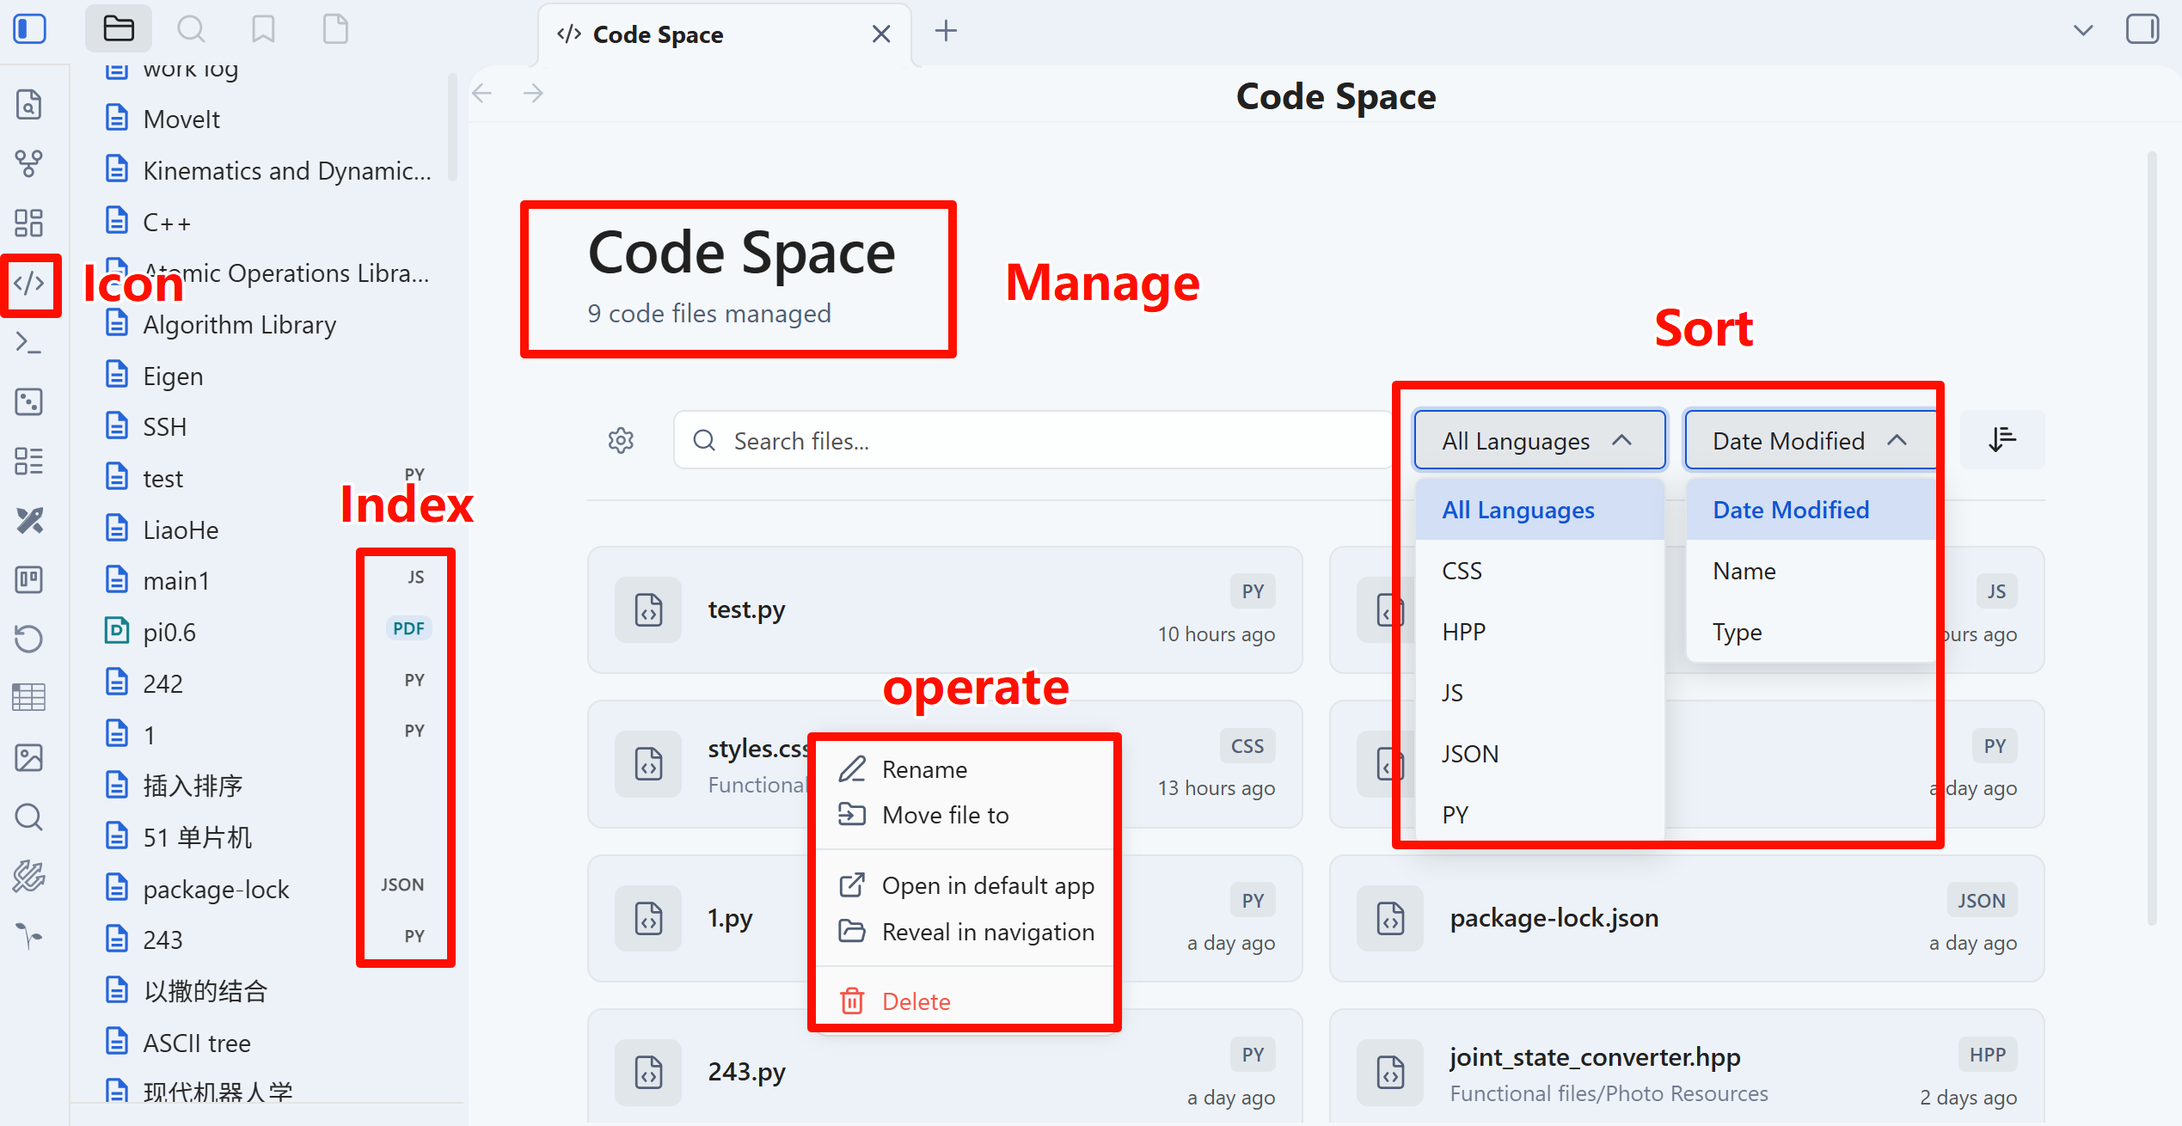
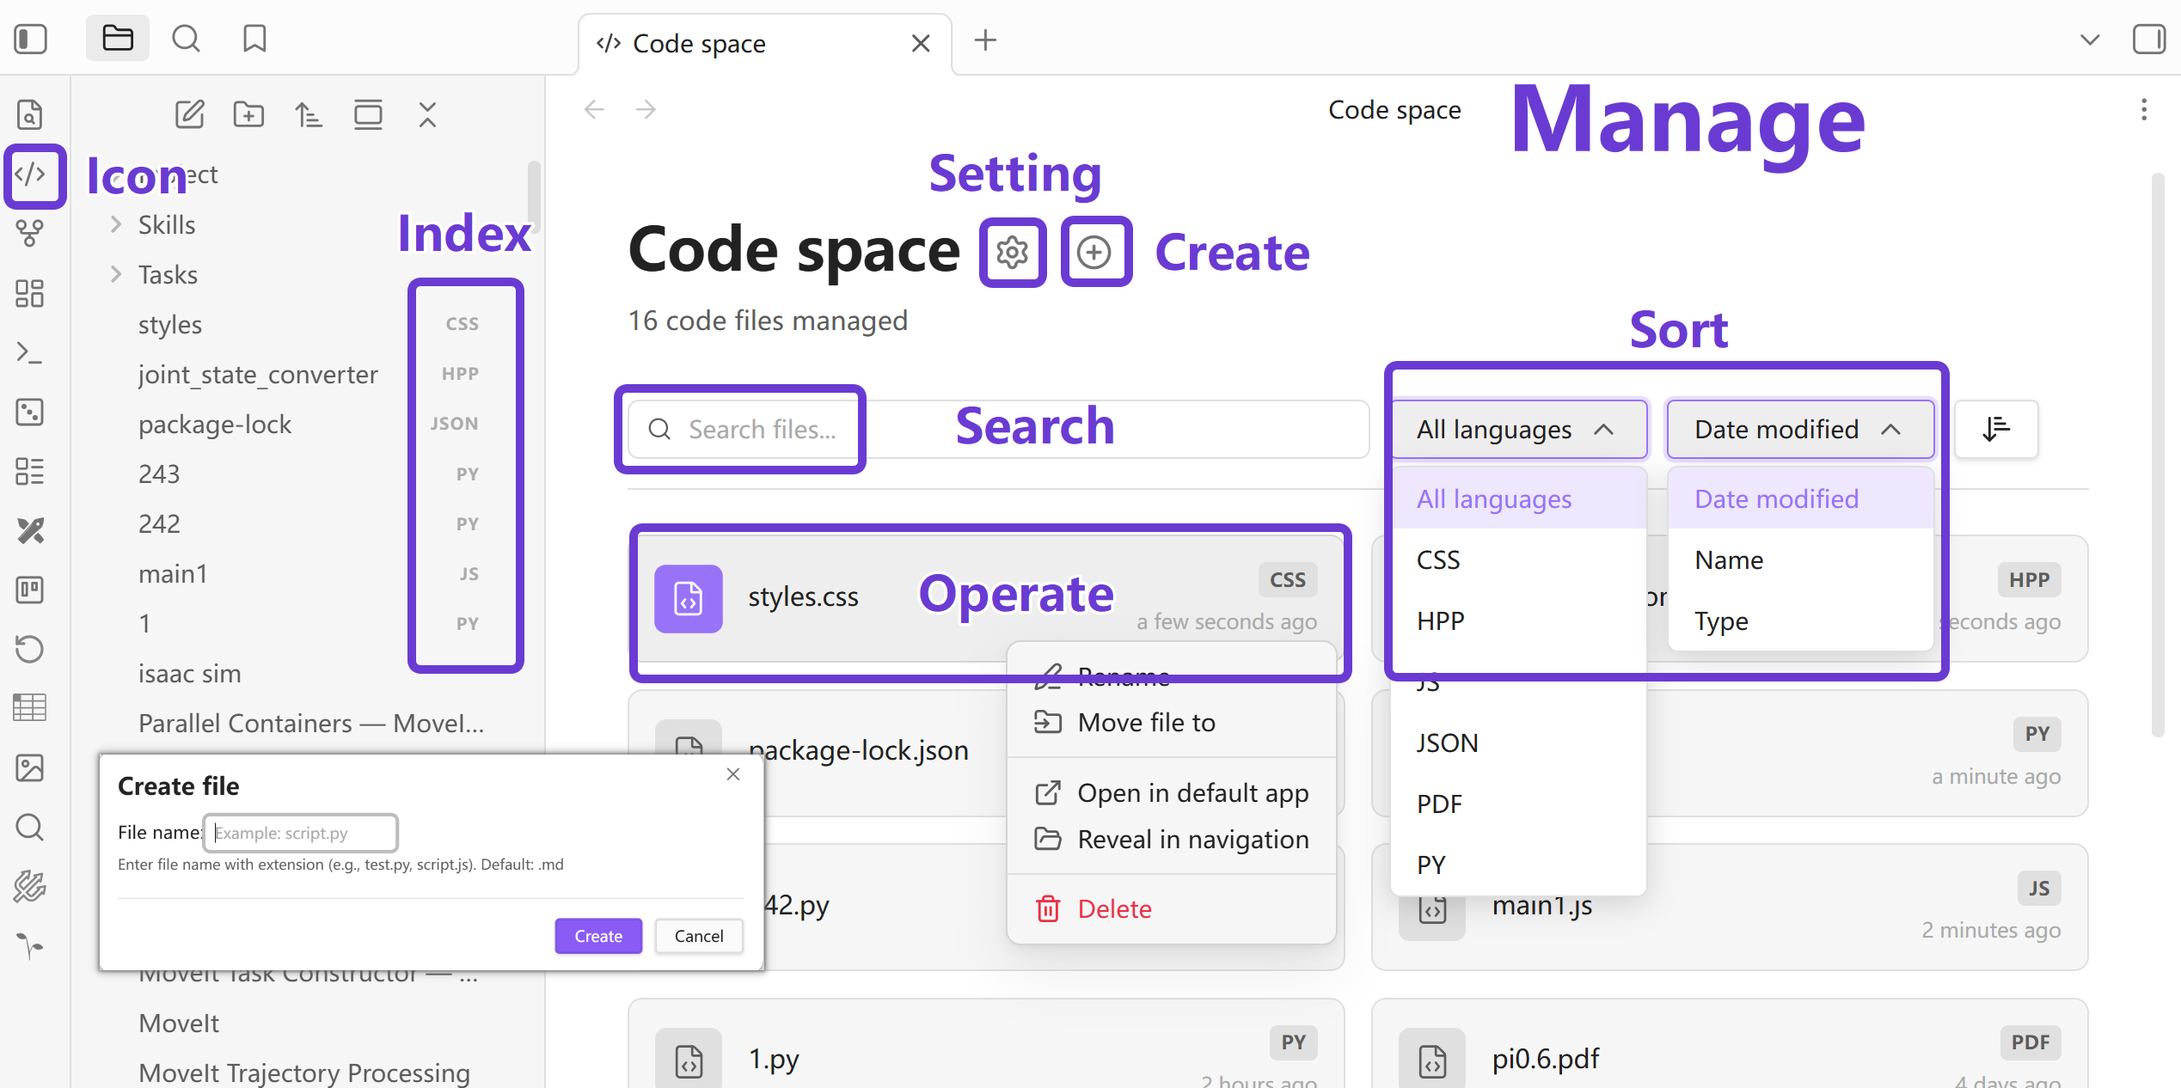
Update readme

diff --git a/README.md b/README.md
@@ -25,60 +25,59 @@ Obsidian does not support **code file viewing, management, and editing** by defa
 
 **The Three Layers of "Space":**
 
-1. **Management Space**: Unified indexing and management for code files through a visual dashboard
-2. **Editing Space**: Professional code viewing and editing environment within code files
-3. **Embedding Space**: Deep integration with Obsidian native features for code file references and embedded previews
+1. **Management Space**: Unified indexing and management for code files through a visual dashboard.
+2. **Editing Space**: Professional code viewing and editing environment within code files.
+3. **Embedding Space**: Deep integration with Obsidian native features for code file references and embedded previews.
+
 
 ---
 
 ## Core Features
 
 ### 1. Code File Management Space
+Provides a visual dashboard for unified indexing and management of code files within your vault.
 
-Unified management of all code files through a visual dashboard
+- **Visual Dashboard**: An immersive management interface supporting grid layouts and file status overviews.
+- **Integrated Management Tools**: The title area integrates **Settings** and **File Creation** functionality to streamline workflows.
+- **Multi-dimensional Dynamic Filtering**: Supports filtering by file extension and real-time search by filename.
+- **Standard File Operations**: Integrated file management functions (Rename, Move, Delete, Open in system app) natively supported by Obsidian.
 
-- **Visual Dashboard**: Browse and manage all code files through a dedicated interface
-- **Smart Filtering**: Filter by file extension and search by filename
-- **Right-Click Actions**: Rename, move, delete, open in system app
-- **Quick Creation**: Create new code files with one click
+<p align='center'><img src='img\pre1.png' width=95%></p> 
 
-<p align='center'><img src='img/pre1.png' width=95%></p>
 
 ### 2. Professional Code Editing Space
+Provides an IDE-like code viewing and editing environment.
 
-Syntax highlighting, line numbers, code folding, and more
+- **Syntax Highlighting**: Precise highlighting for multiple programming languages powered by CodeMirror 6.
+- **Structured Navigation**: Integrated Code Outline view that automatically parses Class, Function, and Method structures with click-to-jump support.
+- **Advanced Search & Replace**: Independent search panel supporting Regular Expressions, case sensitivity, whole-word matching, and global replacement.
+- **Manual Save Mechanism**: Supports Ctrl+S manual saving with cursor position protection to prevent viewport jumping.
+- **Editing Assistance**: Supports auto-indentation, bracket matching, code folding, and line number display.
+- **Interaction Optimization**: Supports Ctrl+Wheel font scaling and provides a floating search button for quick access.
 
-- **Syntax Highlighting**: Multi-language syntax highlighting powered by CodeMirror 6
-- **Smart Editing**: Auto-indentation, bracket matching, code folding
-- **Line Numbers**: Optional line number display
-- **Manual Save**: Save with Ctrl+S, preventing unintended modifications
-- **Font Scaling**: Adjust font size with Ctrl+Mouse Wheel
-- **Keyboard Shortcuts**: Comprehensive keyboard shortcuts support (see below)
+<p align='center'><img src='img\pre22.png' width=95%></p> 
 
-<p align='center'><img src='img/pre2.png' width=95%></p>
+<p align='center'><img src='img\pre2.png' width=95%></p> 
 
-### 3. Obsidian Native Syntax Embedding
+### 3. Obsidian Native Embedding Space
 
-Elegantly embed and preview code in Markdown notes
+Elegantly embed and preview code in Markdown notes.
 
-- **File References**: Link code files using `[[filename]]` syntax
-- **Code Embedding**: Embed code previews in Markdown using `![[filename]]`
-- **Quick Preview**: Hover over links to preview code content
-- **Bidirectional Sync**: Automatic detection and notification of external modifications
+- **File References**: Link code files using `[[filename]]` syntax.
+- **Code Embedding**: Embed code previews in Markdown using `![[filename]]`.
+- **Quick Preview**: Hover over links to preview code content.
+- **Bidirectional Sync**: Automatic detection and notification of external modifications.
 
-<p align='center'><img src='img/pre3.png' width=95%></p>
+<p align='center'><img src='img\pre3.png' width=95%></p> 
 
 ---
-
 ## Configuration
 
 Access plugin settings via: **Settings > Community Plugins > Code Space**
 
-- **Managed Extensions**: Comma-separated list of file extensions for Code Space to manage
-- **Show Line Numbers**: Toggle line number display (default: enabled)
-- **Max Embed Lines**: Maximum lines to display in embedded previews (default: 30, 0 for unlimited)
-
----
+- **Managed Extensions**: Comma-separated list of file extensions for Code Space to manage.
+- **Show Line Numbers**: Toggle line number display (default: enabled).
+- **Max Embed Lines**: Maximum lines to display in embedded previews (default: 30, 0 for unlimited).
 
 ## Supported Languages (Extensible)
 
@@ -92,26 +91,27 @@ Access plugin settings via: **Settings > Community Plugins > Code Space**
 | Data | `.sql`, `.json`, `.yaml`, `.yml`, `.xml` |
 | Scripting | `.php`, `.rb`, `.sh` |
 
-*More languages can be added via plugin settings. The plugin supports management of files with any extension!*
+**More languages can be added via plugin settings. The plugin supports management of files with any extension!**
+- If it is a code file, it will be opened through the Code Space editor interface.
+- If it is a binary file (e.g., images or PDFs), it will be opened using Obsidian's native viewer. You can even use it to manage attachments like PDFs.
 
-- Code files are opened through Code Space's code editor interface
-- Binary files (e.g., images or PDFs) are opened using Obsidian's native viewer
+<p align='center'><img src='img\pre4.png' width=95%></p> 
 
-<p align='center'><img src='img/pre4.png' width=95%></p>
 
----
 
 ## Supported Keyboard Shortcuts
 
 ### Plugin Commands
 
-<p align='center'><img src='img/pre5.png' width=95%></p>
+<p align='center'><img src='img\pre5.png' width=95%></p> 
 
 | Command Path | Function |
 |-------------|----------|
-| `Ctrl+P` → "Open Code Dashboard" | Open code management panel |
-| `Ctrl+P` → "Create Code File" | Create new code file |
-| `Ctrl+P` → "Reload Code Space Plugin" | Reload plugin |
+| `Ctrl+P` → "Open code dashboard" | Open code management panel |
+| `Ctrl+P` → "Create code file" | Create new code file |
+| `Ctrl+P` → "Reload code space plugin" | Reload plugin |
+| `Ctrl+P` → "Toggle code outline" | Toggle code outline view (Enabled by default) |
+
 
 ---
 
@@ -119,7 +119,7 @@ Access plugin settings via: **Settings > Community Plugins > Code Space**
 
 | Shortcut | Function |
 |----------|----------|
-| `Ctrl+S` | Save current file |
+| `Ctrl+S` | Save file manually |
 | `Ctrl+Mouse Wheel` | Adjust font size |
 | `Ctrl+C` | Copy selection |
 | `Ctrl+X` | Cut selection |
@@ -153,6 +153,7 @@ Access plugin settings via: **Settings > Community Plugins > Code Space**
 | `Ctrl+Shift+→` | Select to word end |
 | `Ctrl+Shift+Home` | Select to file start |
 | `Ctrl+Shift+End` | Select to file end |
+| `Ctrl+A` | Select all |
 
 ### Editing Operations
 
@@ -168,19 +169,19 @@ Access plugin settings via: **Settings > Community Plugins > Code Space**
 
 ## Installation
 
-### Method 1: Via Obsidian Community Plugins (Recommended)
+### Method 1: Via Obsidian Community Plugins (In review, not yet fully listed)
 
-1. Open **Settings > Community Plugins**
-2. Turn off "Safe mode"
-3. Click "Browse" button
-4. Search for "Code Space"
-5. Click "Install" and enable
+1. Open **Settings > Community Plugins**.
+2. Turn off "Safe mode".
+3. Click "Browse" button.
+4. Search for "Code Space".
+5. Click "Install" and enable.
 
 ### Method 2: Manual Installation
 
-1. Visit [Releases](https://github.com/unlinearity/Obsidian-Codespace/releases/latest) to download the latest version
-2. Extract files to plugin directory: `.obsidian/plugins/code-space/`
-3. Reload and enable in Obsidian settings
+1. Visit [Releases](https://github.com/unlinearity/Obsidian-Codespace/releases/latest).
+2. Download `main.js`, `manifest.json`, and `styles.css`. Place them in your vault's plugin directory: `.obsidian/plugins/code-space/`. Create the `code-space` folder manually if it doesn't exist.
+3. Reload and enable in Obsidian settings.
 
 ---
 
@@ -205,14 +206,17 @@ npm run lint         # Run ESLint
 ```
 obsidian-codespace/
 ├── src/
-│   ├── main.ts           # Plugin initialization
-│   ├── code_view.ts      # Code editor implementation
-│   ├── code_embed.ts     # Markdown embed handler
-│   ├── code_dashboard.ts # File browser interface
-│   └── settings.ts       # Settings UI
-├── styles.css            # Plugin styles
-├── manifest.json         # Plugin metadata
-└── package.json
+│   ├── main.ts           # Plugin Entry: Handles command registration, view mounting, and lifecycle management
+│   ├── code_view.ts      # Editor Core: Implementation of CodeMirror 6 based code editing environment
+│   ├── dashboard_view.ts # Dashboard View: Visual file indexing and management interface
+│   ├── outline_view.ts   # Outline View: Implementation of sidebar structured navigation
+│   ├── code_parser.ts    # Symbol Parser: Multi-language code structure analysis tool
+│   ├── code_embed.ts     # Embed Processor: Markdown reference and preview logic
+│   ├── dropdown.ts       # UI Component: Custom interactive dropdown menu
+│   └── settings.ts       # Settings Panel: Implementation of plugin configuration options
+├── styles.css            # Plugin Styles: Visual definitions for editor, dashboard, and outline
+├── manifest.json         # Plugin Metadata
+└── package.json          # Project dependencies and build scripts
 ```
 
 ---
@@ -222,27 +226,26 @@ obsidian-codespace/
 Contributions are welcome via Pull Request!
 
 Please ensure:
-1. Code passes ESLint checks
-2. Follows existing code style
-3. Commit messages are clear and descriptive
+1. Code passes ESLint checks.
+2. Follows existing code style.
+3. Commit messages are clear and descriptive.
 
 For issues or suggestions, please use [GitHub Issues](https://github.com/unlinearity/Obsidian-Codespace/issues).
 
 ---
 
 ## Known Limitations
-
-- Code file content not indexed by Obsidian global search
-- Find and replace functionality not implemented
+- Code file content is currently not indexed by Obsidian's global search engine.
 
 ---
-
 ## Acknowledgments
 
-Built with:
-- [Obsidian API](https://github.com/obsidianmd/obsidian-api)
-- [CodeMirror 6](https://codemirror.net/)
-- [TypeScript](https://www.typescriptlang.org/)
+This project is built upon the following excellent projects:
+- [Obsidian API](https://github.com/obsidianmd/obsidian-api): Provides powerful plugin extensibility capabilities.
+- [CodeMirror 6](https://codemirror.net/): Flexible and modern code editor engine.
+- [Lezer](https://lezer.codemirror.net/): Efficient incremental code parsing system.
+- [TypeScript](https://www.typescriptlang.org/): Provides robust type safety assurances.
+- [esbuild](https://esbuild.github.io/): Extremely fast JavaScript bundler.
 
 ---
 
@@ -252,7 +255,6 @@ Built with:
 - Email: unlinearity@gmail.com
 - Issues: [GitHub Issues](https://github.com/unlinearity/Obsidian-Codespace/issues)
 - [MIT License](LICENSE) - Copyright (c) 2026 unlinearity
-
 ---
 
 **Making code management simple and efficient in Obsidian!**

diff --git a/README_CN.md b/README_CN.md
@@ -35,30 +35,31 @@ Obsidian 默认不支持**代码文件的查看、管理和编辑**，Code Space
 ## 核心功能
 
 ### 1. 代码文件管理空间
-通过可视化仪表盘统一管理所有代码文件
+提供可视化仪表盘，用于库内代码文件的统一索引与管理。
 
-- **可视化仪表盘**：通过专用界面浏览和管理所有代码文件
-- **智能筛选**：按文件扩展名、文件名搜索过滤
-- **右键操作**：重命名、移动、删除、在系统应用中打开
-- **快速创建**：一键创建新的代码文件
+- **可视化仪表盘**：提供沉浸式管理界面，支持网格布局与文件状态概览。
+- **集成管理工具**：标题区域集成**设置入口**与**文件创建功能**，简化操作路径。
+- **多维动态过滤**：支持按文件扩展名筛选和按文件名实时搜索。
+- **标准文件操作**：集成重命名、移动、删除及外部应用打开等obsidian原生支持的文件管理功能。
 
 <p align='center'><img src='img\pre1.png' width=95%></p> 
 
 
 ### 2. 专业代码编辑空间
+提供基于 IDE 体验的代码查看与编辑环境。
 
-语法高亮、行号、代码折叠等专业编辑功能 
+- **语法高亮**：基于 CodeMirror 6，提供针对多种编程语言的精确高亮显示。
+- **结构化导航**：集成代码大纲视图，自动解析类、函数及方法结构并支持点击跳转。
+- **高级搜索替换**：提供独立搜索面板，支持正则表达式、大小写敏感、全词匹配及全局替换。
+- **手动保存机制**：支持 Ctrl+S 手动保存，并具备光标位置保护功能，防止保存时视口跳动。
+- **基础编辑辅助**：支持自动缩进、括号补全、代码折叠及行号显示。
+- **交互优化**：支持 Ctrl+滚轮缩放字体，并提供浮动搜索按钮以快速触达查找功能。
 
-- **语法高亮**：基于 CodeMirror 6 的多语言语法高亮
-- **智能编辑**：自动缩进、括号匹配、代码折叠
-- **行号显示**：可选的行号显示功能
-- **手动保存**：Ctrl+S 手动保存，避免意外修改
-- **字体缩放**：Ctrl+鼠标滚轮调整字体大小
-- **快捷操作**: 支持系列快捷键，可以参考后面快捷键的提示
+<p align='center'><img src='img\pre22.png' width=95%></p> 
 
 <p align='center'><img src='img\pre2.png' width=95%></p> 
 
-### 3. Obsidian 原生语法嵌入
+### 3. Obsidian 原生嵌入空间
 
 在 Markdown 中优雅地嵌入和预览代码
 
@@ -90,9 +91,9 @@ Obsidian 默认不支持**代码文件的查看、管理和编辑**，Code Space
 | 数据 | `.sql`, `.json`, `.yaml`, `.yml`, `.xml` |
 | 脚本 | `.php`, `.rb`, `.sh` |
 
-*更多语言可通过插件设置添加，插件支持任意后缀的文件管理！*
+**更多语言可通过插件设置添加，插件支持任意后缀的文件管理！**
 - 如果是代码文件，会通过Code Space的代码界面打开
-- 如果是二进制文件（例如图片或 pdf ,会调用 Obsidian 原生的查看器进行打开
+- 如果是二进制文件（例如图片或 pdf ,会调用 Obsidian 原生的查看器进行打开，你甚至可以用来管理 pdf 等附件）
 
 <p align='center'><img src='img\pre4.png' width=95%></p> 
 
@@ -106,9 +107,10 @@ Obsidian 默认不支持**代码文件的查看、管理和编辑**，Code Space
 
 | 命令路径 | 功能 |
 |---------|------|
-| `Ctrl+P` → "Open Code Dashboard" | 打开代码管理面板 |
-| `Ctrl+P` → "Create Code File" | 创建新代码文件 |
-| `Ctrl+P` → "Reload Code Space Plugin" | 重新加载插件 |
+| `Ctrl+P` → "Open code dashboard" | 打开代码管理面板 |
+| `Ctrl+P` → "Create code file" | 创建新代码文件 |
+| `Ctrl+P` → "Reload code space plugin" | 重新加载插件 |
+| `Ctrl+P` → "Toggle code outline" | 开关代码大纲视图（默认打开） |
 
 
 ---
@@ -117,7 +119,7 @@ Obsidian 默认不支持**代码文件的查看、管理和编辑**，Code Space
 
 | 快捷键 | 功能 |
 |--------|------|
-| `Ctrl+S` | 保存当前文件 |
+| `Ctrl+S` | 手动保存文件 |
 | `Ctrl+鼠标滚轮` | 调整字体大小 |
 | `Ctrl+C` | 复制选中内容 |
 | `Ctrl+X` | 剪切选中内容 |
@@ -167,7 +169,7 @@ Obsidian 默认不支持**代码文件的查看、管理和编辑**，Code Space
 
 ## 安装
 
-### 方式一：通过 Obsidian 社区插件安装（推荐）
+### 方式一：通过 Obsidian 社区插件安装（在审核列表，还未完全上架）
 
 1. 打开 **设置 > 社区插件**
 2. 关闭"安全模式"
@@ -177,8 +179,8 @@ Obsidian 默认不支持**代码文件的查看、管理和编辑**，Code Space
 
 ### 方式二：手动安装
 
-1. 访问 [Releases](https://github.com/unlinearity/Obsidian-Codespace/releases/latest) 下载最新版本
-2. 将下载的文件解压到库的插件目录：`.obsidian/plugins/code-space/`
+1. 访问 [Releases](https://github.com/unlinearity/Obsidian-Codespace/releases/latest) 
+2. 下载 main.js、manifest.json、styles.css，放置在你的obsidian库的插件目录：`.obsidian/plugins/code-space/`，code-space 这个文件夹如果不存在请手动创建
 3. 在 Obsidian 设置中重新加载并启用插件
 
 ---
@@ -204,14 +206,17 @@ npm run lint         # 运行 ESLint
 ```
 obsidian-codespace/
 ├── src/
-│   ├── main.ts           # 插件初始化
-│   ├── code_view.ts      # 代码编辑器实现
-│   ├── code_embed.ts     # Markdown 嵌入处理器
-│   ├── code_dashboard.ts # 文件浏览界面
-│   └── settings.ts       # 设置界面
-├── styles.css            # 插件样式
+│   ├── main.ts           # 插件入口：负责命令注册、视图挂载及生命周期管理
+│   ├── code_view.ts      # 编辑器核心：基于 CodeMirror 6 的代码编辑环境实现
+│   ├── dashboard_view.ts # 仪表盘视图：可视化文件索引与管理界面
+│   ├── outline_view.ts   # 大纲视图：侧边栏结构化导航实现
+│   ├── code_parser.ts    # 符号解析器：多语言代码结构分析工具
+│   ├── code_embed.ts     # 嵌入处理器：Markdown 引用与预览逻辑
+│   ├── dropdown.ts       # UI 组件：自定义下拉交互菜单
+│   └── settings.ts       # 设置面板：插件配置项实现
+├── styles.css            # 插件样式：涵盖编辑器、仪表盘及大纲的视觉定义
 ├── manifest.json         # 插件元数据
-└── package.json
+└── package.json          # 项目依赖与构建脚本
 ```
 
 ---
@@ -230,16 +235,17 @@ obsidian-codespace/
 ---
 
 ## 已知限制
-- 代码文件内容未被 Obsidian 全局搜索索引
-- 未实现查找和替换功能
+- 代码文件内容目前不被 Obsidian 的全局搜索引擎索引。
 
 ---
 ## 致谢
 
-本项目构建于以下优秀项目：
-- [Obsidian API](https://github.com/obsidianmd/obsidian-api)
-- [CodeMirror 6](https://codemirror.net/)
-- [TypeScript](https://www.typescriptlang.org/)
+本项目构建于以下优秀项目之上：
+- [Obsidian API](https://github.com/obsidianmd/obsidian-api): 提供强大的插件扩展能力。
+- [CodeMirror 6](https://codemirror.net/): 灵活且现代的代码编辑器引擎。
+- [Lezer](https://lezer.codemirror.net/): 高效的增量式代码解析系统。
+- [TypeScript](https://www.typescriptlang.org/): 提供稳健的类型安全保障。
+- [esbuild](https://esbuild.github.io/): 极速的 JavaScript 打包工具。
 
 ---
 
